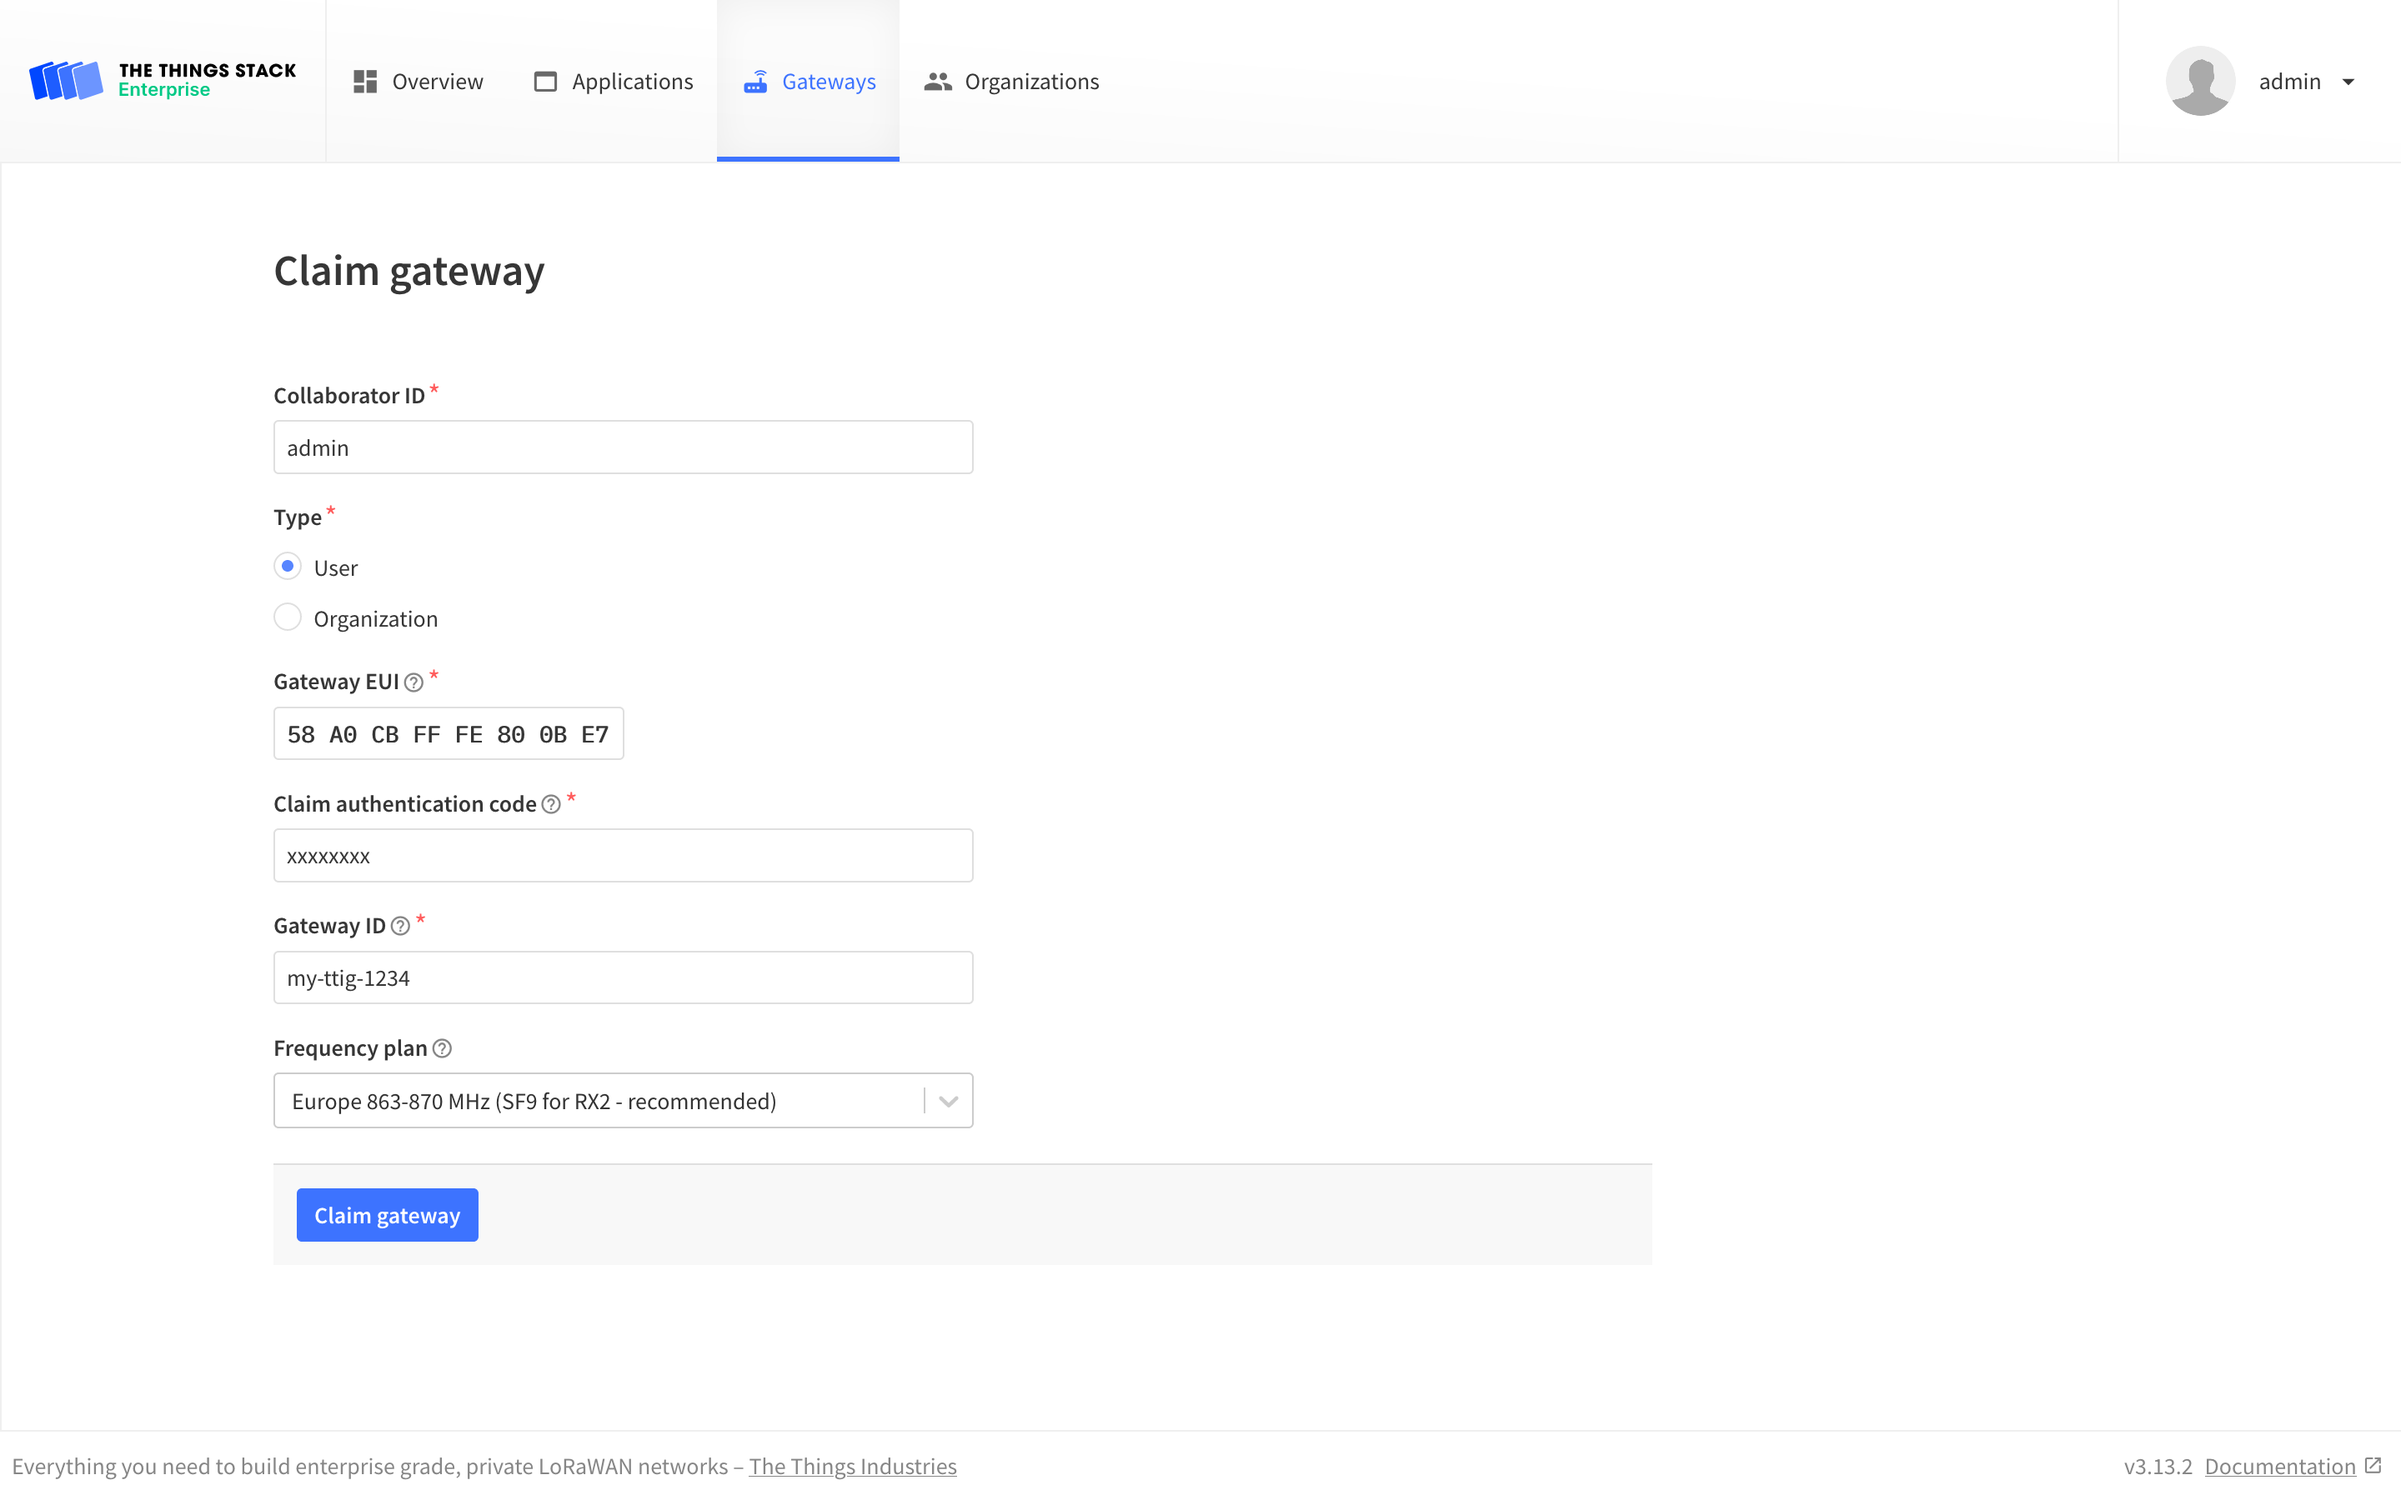
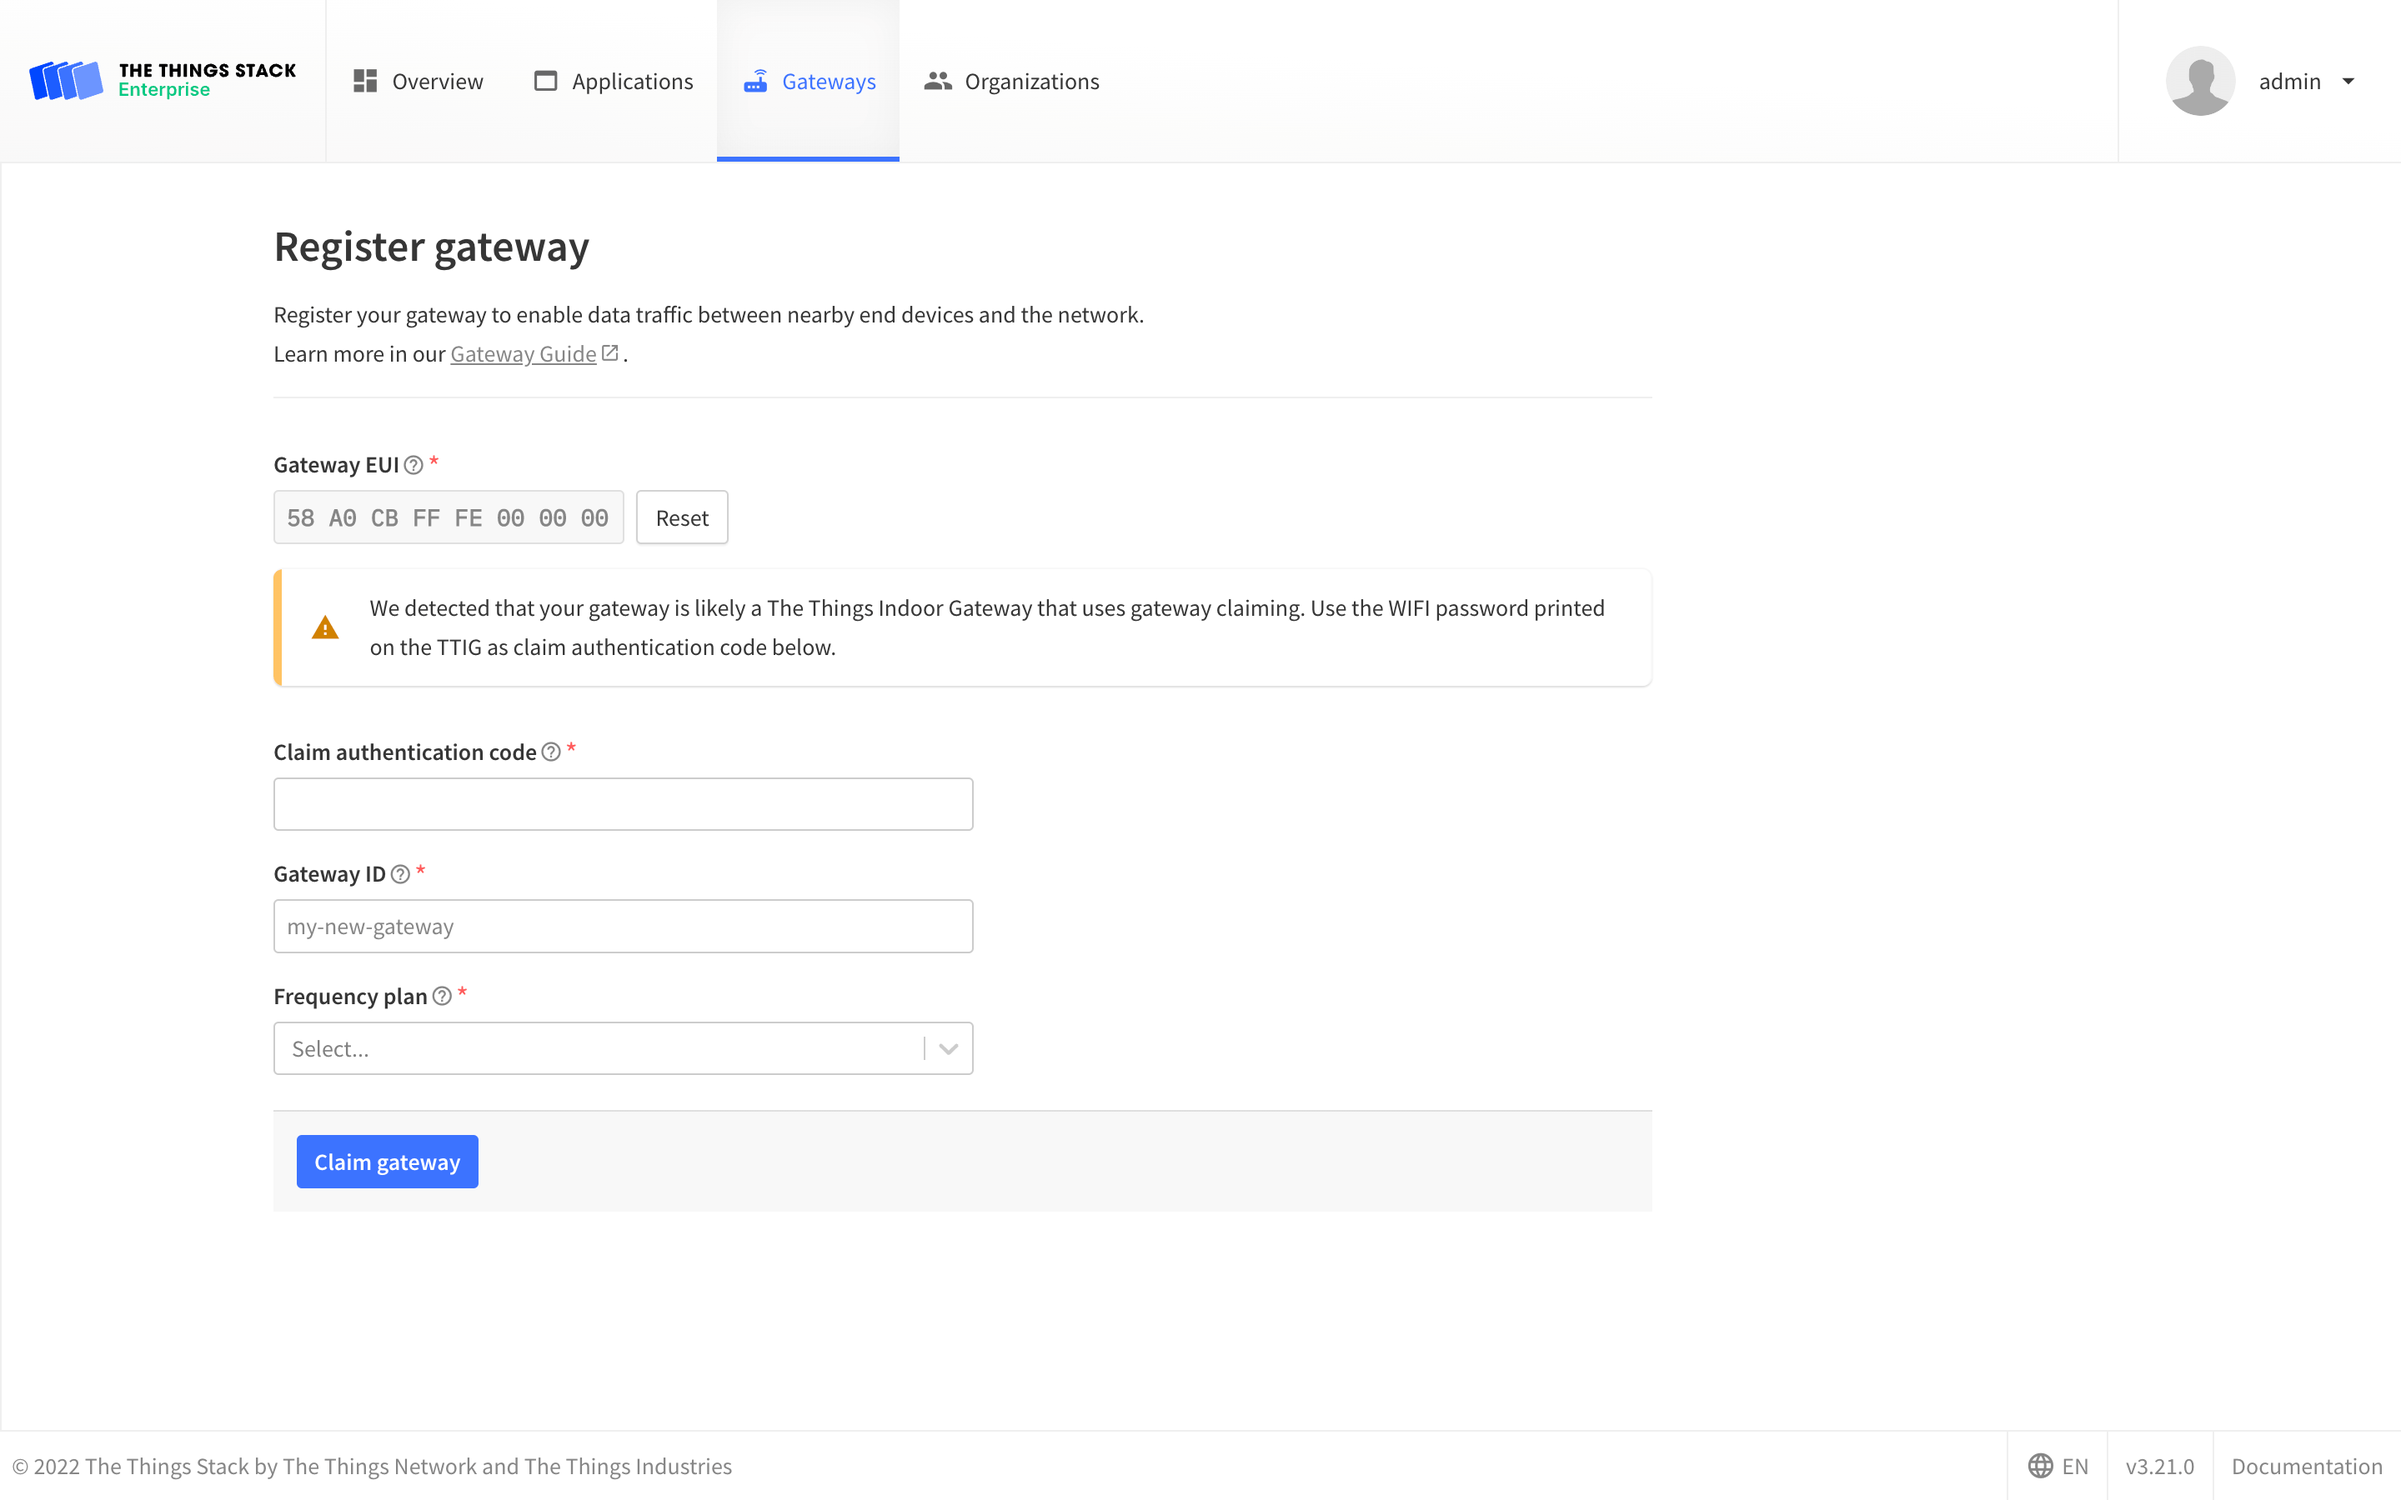
doc: Update TTIG claiming

diff --git a/doc/content/gateways/thethingsindoorgateway/_index.md b/doc/content/gateways/thethingsindoorgateway/_index.md
@@ -11,7 +11,7 @@ This page guides you to connect {{% ttig %}} to {{% tts %}}.
 
 <!--more-->
 
-{{% ttig %}} is an 8 Channel LoRaWAN gateway, whose technical specifications can be found in [the official documentation](https://www.thethingsnetwork.org/docs/gateways/thethingsindoor/). 
+{{% ttig %}} is an 8 Channel LoRaWAN gateway, whose technical specifications can be found in [the official documentation](https://www.thethingsnetwork.org/docs/gateways/thethingsindoor/).
 
 ## Prerequisites
 
@@ -22,23 +22,29 @@ The gateway EUI can later be found at the bottom in the WiFi setup screen.
 
 {{< figure src="TTIG_EUI.png" alt="{{% ttig %}} EUI" >}}
 
-3. The WiFi password of the {{% ttig %}}, typically printed on the back of the gateway. 
+3. The WiFi password of the {{% ttig %}}, typically printed on the back of the gateway.
 
 ## Claiming {{% ttig %}}
 
 {{% ttig %}} is added to The Things Stack via a process called **Gateway Claiming**.
 
-{{< warning >}} Do not register your TTIGs via the regular option of **Adding Gateways**. {{</ warning >}}
+{{< note >}}Claiming of gateways is not supported on {{% tts %}} Open Source.{{</ note >}}
 
 {{< tabs/container "Console" "CLI" >}}
 
 {{< tabs/tab "Console" >}}
 
-Go to **Gateways** in the top menu, and click the **Claim Gateway** button on the upper right to reach the gateway claiming page.
+Go to **Gateways** in the top menu, and click **+ Register Gateway** to reach the gateway registration page.
 
-Fill the **Gateway EUI**, the **Claim authentication code** (the WiFi Password from Prerequisites), the **Gateway ID** and choose the appropriate **Frequency Plan**.
+Fill the **Gateway EUI** and click **Confirm**.
 
-Click **Claim gateway** to finish.
+Depending on whether the **Gateway EUI** is claimable you will either be shown the claiming form or the manual registration form.
+
+{{< warning >}} Do not register your TTIGs via the manual registration. All TTIGs should be claimable, if you see the manual registration form please contact support. {{</ warning >}}
+
+If your gateway is claimable, you will see the claiming form. Here, fill in the **Authentication Code**, **Gateway ID** and the **Frequency Plan**.
+
+Click **Claim Gateway** to finish.
 
 {{< figure src="TTIG_Claim.png" alt="{{% ttig %}} Claiming" >}}
 
@@ -100,10 +106,10 @@ Select the WiFi network by clicking the **+** button next to the desired network
 
 Click **Save and Reboot** to finish.
 
-If your configuration is correct, 
+If your configuration is correct,
   *  The gateway will blink GREEN for a few seconds until it connects to the selected WiFi network.
   * Then, it will blink from GREEN to RED and vice versa for a few seconds while it connects to the server and fetches the necessary configuration.
-  * Please allow 5-10 minutes for the gateway to pick up the new configuration. 
+  * Please allow 5-10 minutes for the gateway to pick up the new configuration.
 
 If this is the first time your gateway is being powered on/connected to WiFi, it might pick up a new firmware depending on when it was last updated. This is indicated by alternating GREEN/RED blinks of the LED. Please leave the gateway powered on when this happens.
 
@@ -193,7 +199,7 @@ Reboot your {{% ttig %}}. If the gateway status is still `Disconnected` after a 
 ### LED States
 
 |Color(s) | Illumination Pattern |Operating Mode | Meaning|
-|---|---|---|---| 
+|---|---|---|---|
 |GREEN|Blinking (freq 1 sec)|GW| WiFi not connected (or trying to connect)|
 |GREEN|Blinking (freq 1/4 sec)|GW| Connected to WiFi, establishing connection to LNS/configuring radio|
 |GREEN|Solid|GW| Connected to WiFi, connected to LNS backend, listening for packets|

diff --git a/doc/content/gateways/adding-gateways/_index.md b/doc/content/gateways/adding-gateways/_index.md
@@ -27,9 +27,6 @@ Adding gateways using the Console or the CLI is usually most convenient, so thos
 
 Go to **Gateways** in the top menu, and click **+ Register Gateway** to reach the gateway registration page.
 
-
-
-
 Fill the **Gateway EUI** and click **Confirm**. Some gateways do not use a **Gateway EUI** (e.g. The Things Kickstarter Gateway), in which case you can just click on **Continue without EUI**.
 
 Depending on whether the **Gateway EUI** is claimable you will either be shown the claiming form or the manual registration form.
